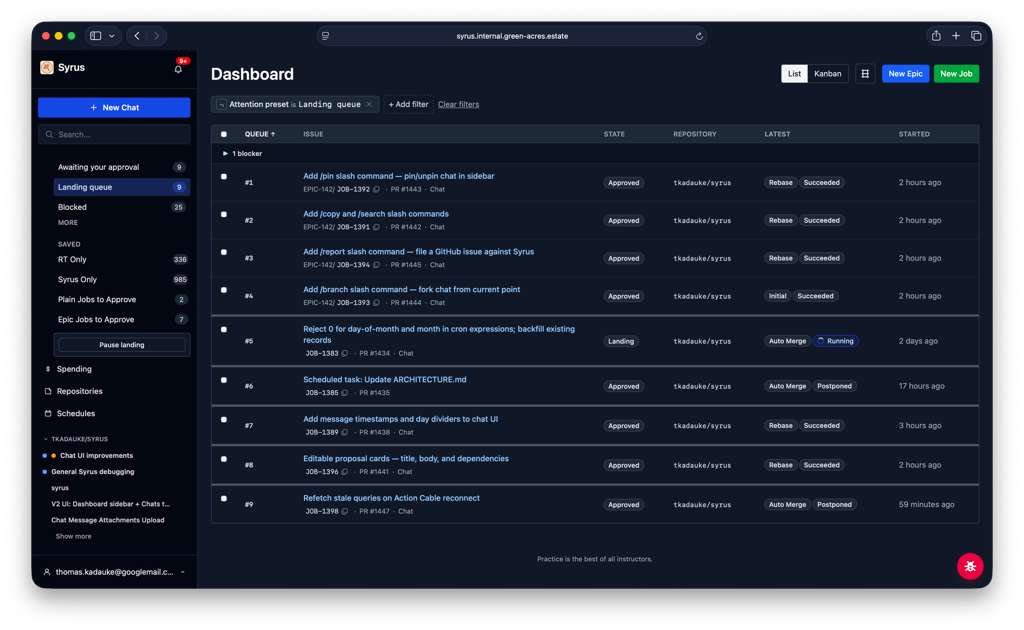
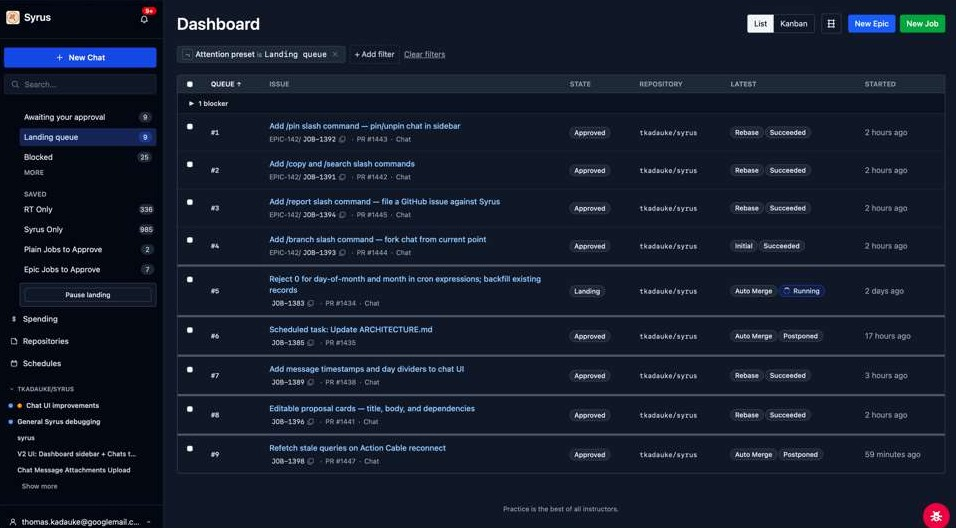
Crop desktop screenshot to app content (remove white border + browser chrome)

diff --git a/components/screenshot-frame.tsx b/components/screenshot-frame.tsx
@@ -120,8 +120,8 @@ function BrowserFrame({ src }: { src: string | null }) {
         <img
           src={src}
           alt="The Syrus dashboard turning GitHub issues into pull requests."
-          width={1024}
-          height={630}
+          width={956}
+          height={528}
           className="block h-auto w-full"
         />
       ) : (